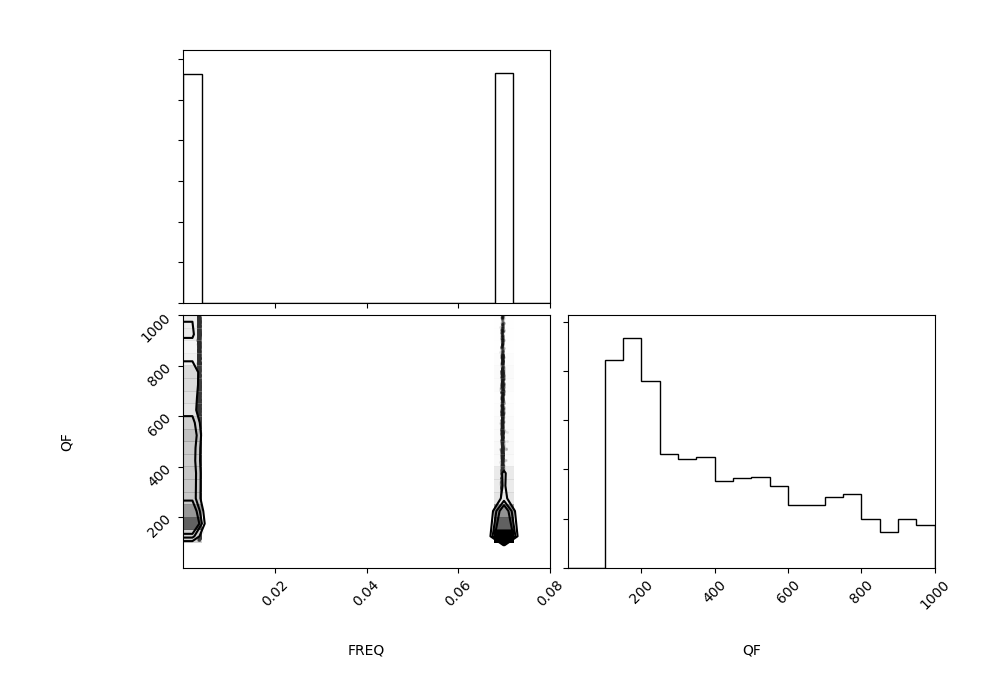
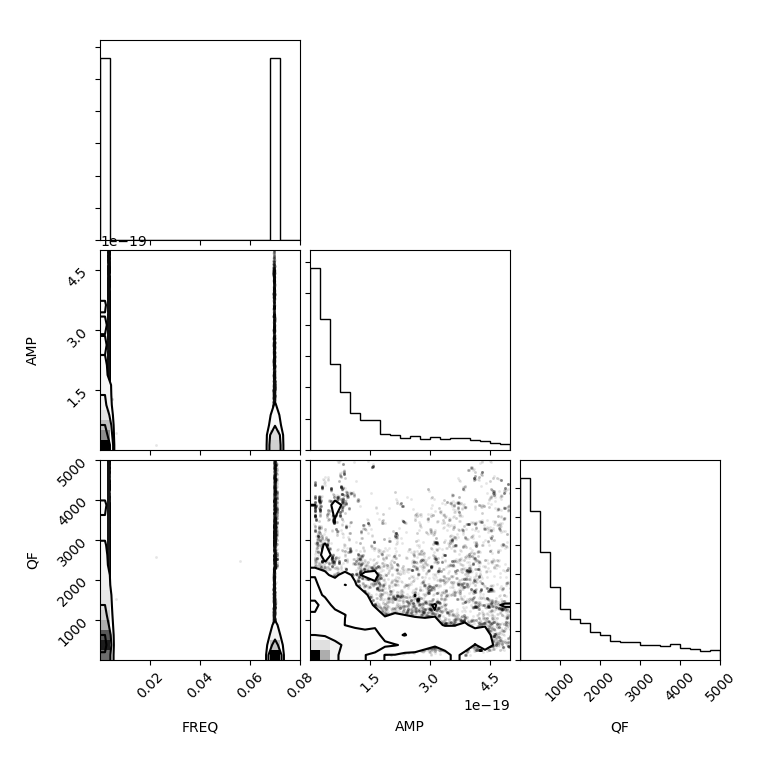
still working on centroids

diff --git a/src/main.py b/src/main.py
@@ -5,19 +5,24 @@ import linechain as lc
 import pandas as pd
 import numpy as np
 import os
+from pymc3.stats import hpd
 
 run = 'ltp_run_b1'
 output_dir = os.path.join('out', run)
 if not os.path.exists(output_dir): os.makedirs(output_dir)
 model_file = os.path.join(output_dir, run + '_line_evidence.dat')
-#for channel in range(6):
-#    best_model = []
-#    for time in lc.get_lines(run, channel, model_file):
-#        best_model.append(lc.best_line_model(run, time, channel))
-#    print('Best model for channel ' + str(channel) + ': ' + str(best_model))
 time = 1143789532
 channel = 4
 model = lc.best_line_model(run, time, channel)
-print(lc.get_param_centroids(run, time, channel, model))
 lc_params = lc.get_model_params(run, time, channel, model)
+lc_hpd = hpd(lc_params.to_numpy(), alpha=0.05)
+print(lc_hpd)
+med = lc_params.median()
+std = lc_params.std()
+print(med)
+#lower = med - std
+#upper = med + 5 * std
+#print(lower)
+#print(lc_params[lc_params.all() > lower.all() and lc_params.all() < upper.all()])
+print(lc.get_param_centroids(lc_params, model))
 plot.line_params_corner(lc_params)

diff --git a/src/linechain.py b/src/linechain.py
@@ -5,7 +5,8 @@ import os
 import sys
 import time_functions as tf
 import itertools
-from sklearn.cluster import MiniBatchKMeans
+from sklearn.cluster import KMeans
+from sklearn.neighbors import KernelDensity
 
 def get_counts(lc_file):
     '''
@@ -153,9 +154,11 @@ def get_model_params(run, time, channel, model):
     # Remove NaNs and reset index
     return df[df.iloc[:,0].notna()].reset_index(drop=True)
 
-def get_param_centroids(run, time, channel, model):
+def get_param_centroids(param_df, model):
     # Uses scikit-learn K-means algorithm
-    param_df = get_model_params(run, time, channel, model)
-    init = np.array([[6.944806e-02, 3.072776e-20, 3.067084e+02], [3.189902e-03, 6.450174e-19, 5.410645e+03]])
-    centroids = MiniBatchKMeans(n_clusters=model, init=init).fit(param_df)
+    #init = np.array([param_df.median().to_numpy(), param_df.median().to_numpy()])
+    #print(init)
+    centroids = KMeans(n_clusters=model).fit(param_df)
+    #freqs = KernelDensity(kernel='gaussian').fit(param_df.iloc[:,0:1])
+    #return freqs.get_params()
     return centroids.cluster_centers_

diff --git a/src/plot.py b/src/plot.py
@@ -305,5 +305,5 @@ def line_params(line_df, logx=True):
 
 def line_params_corner(line_df):
     #plt.scatter(line_df['FREQ'], line_df['AMP'])
-    corner.corner(line_df, range=[(0, 0.1), (0, 1e-18), (0, 1e4)])
+    corner.corner(line_df, range=[(0, 0.08), (0, 0.5e-18), (0, 5000)])
     plt.show()
